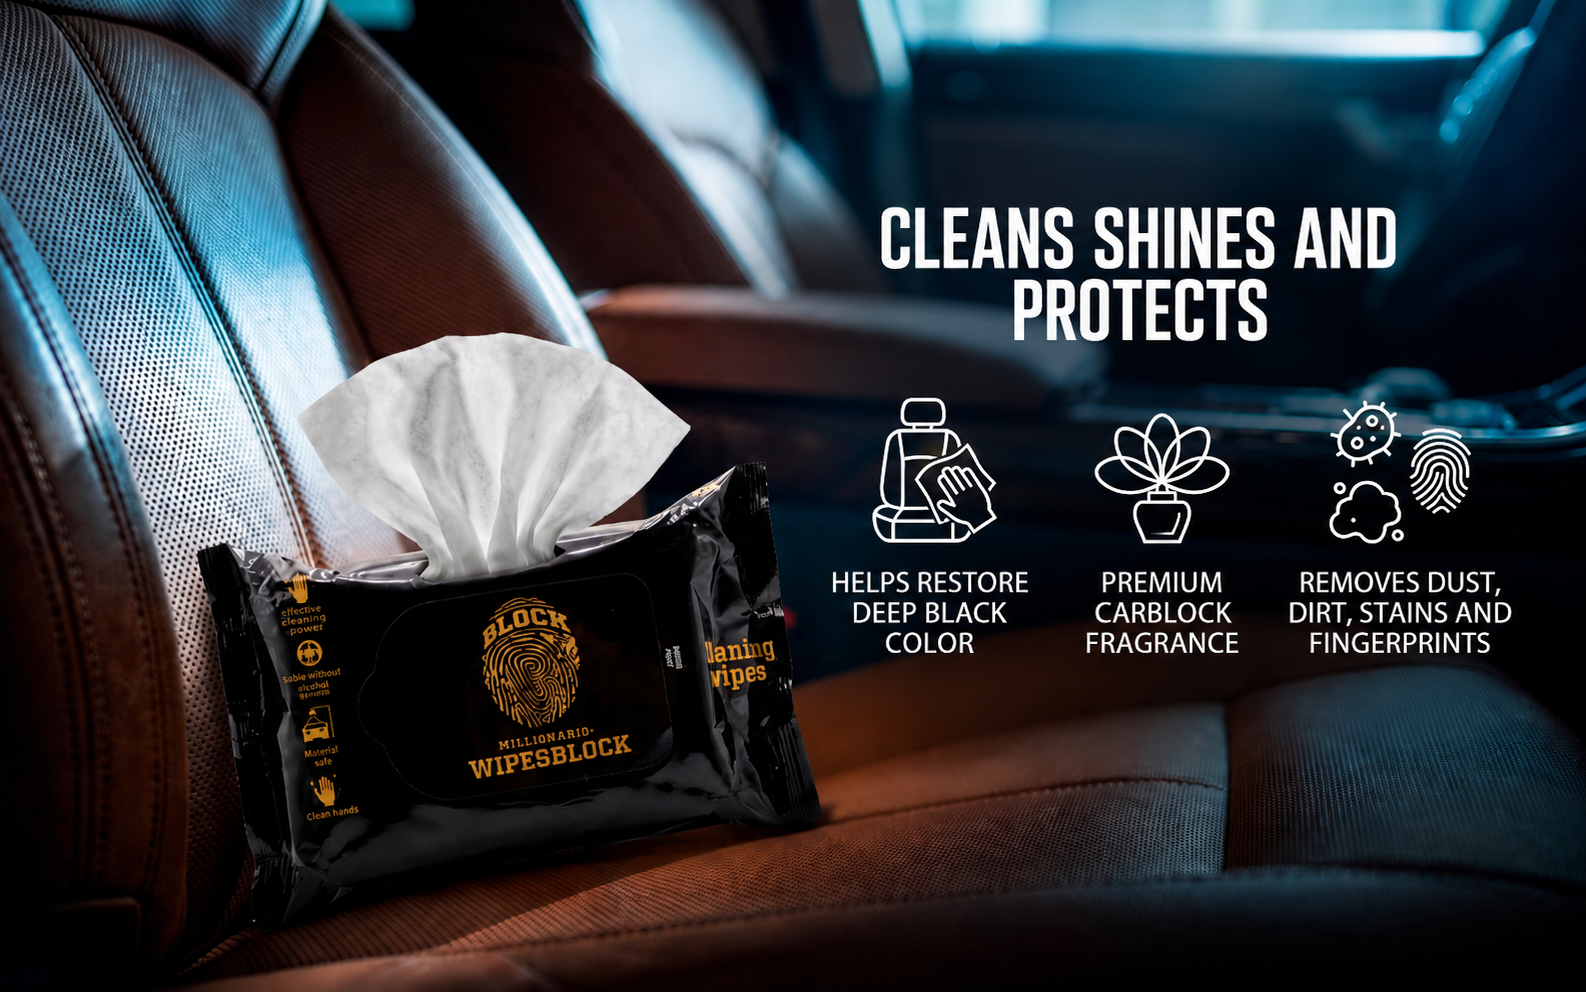
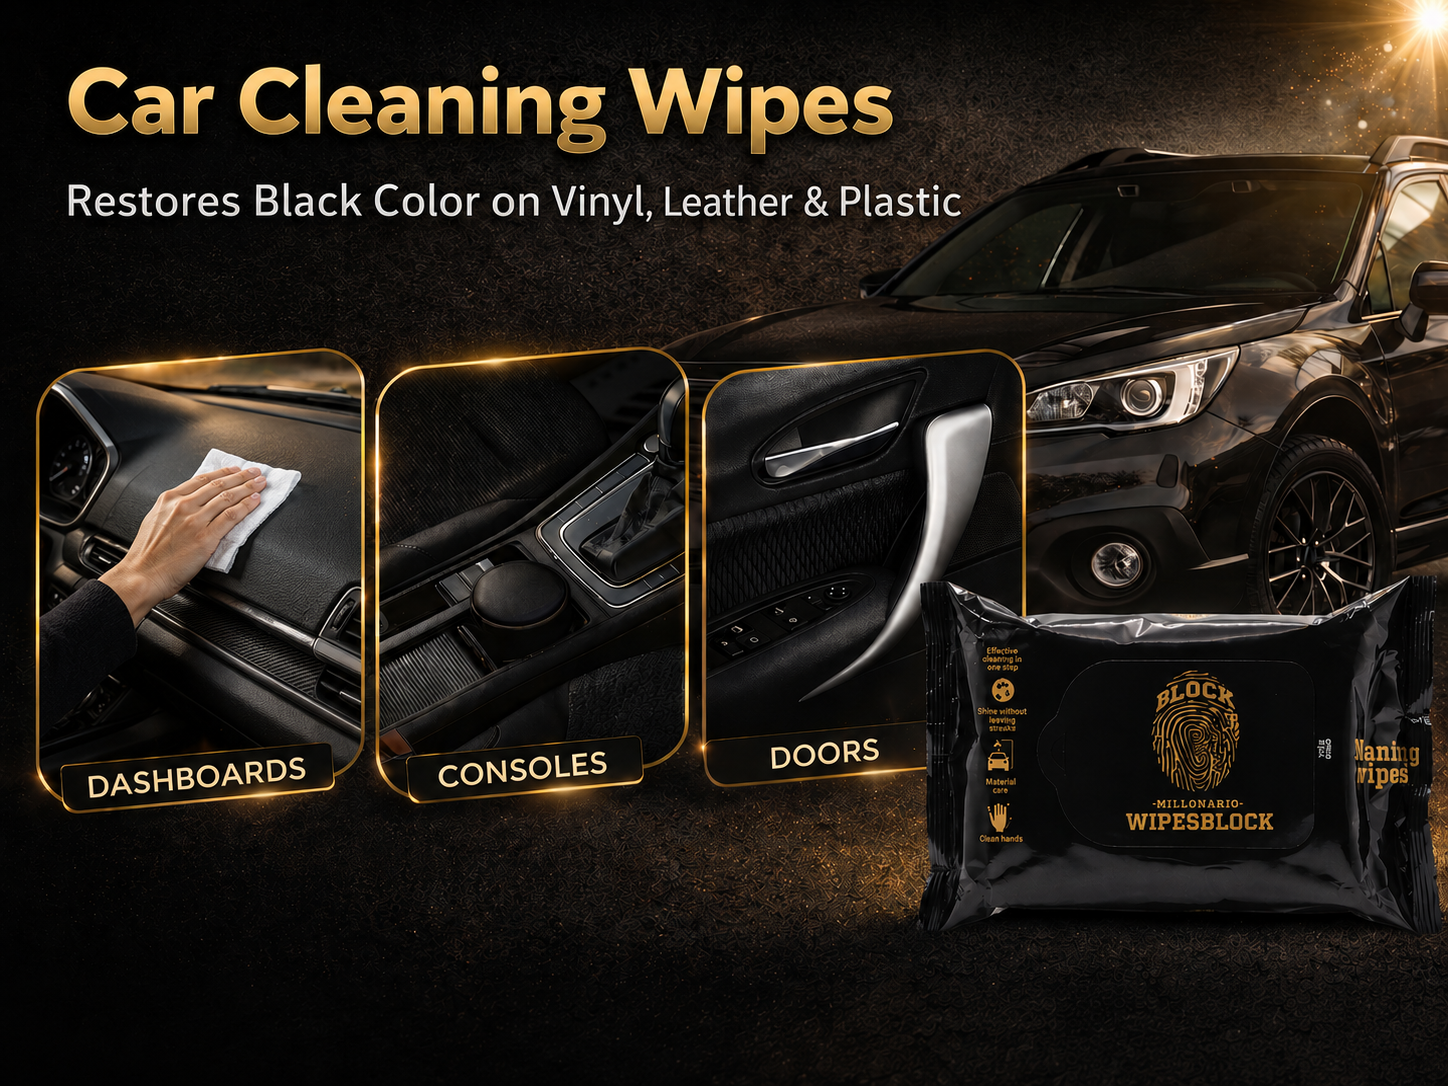
feat: refresh hero photos + remove breadcrumb on product detail page
hero — re-copy the 4 banner photos from the local Pagina web folder.
Photo 3 was updated (newer file), the rest are unchanged.

product page — drop the "HOME › CARBLOCK › CARBLOCK MILLON…"
breadcrumb strip at the top of /products/[slug]. The user finds the
extra row noisy now that the navbar + hero already give clear
context, and removing it brings the product image up ~50px on mobile.
Cleans up the now-unused Link and ChevronRight imports.

diff --git a/src/app/products/[slug]/page.tsx b/src/app/products/[slug]/page.tsx
@@ -1,6 +1,5 @@
 import { notFound } from "next/navigation";
-import Link from "next/link";
-import { ChevronRight, Truck, Clock, ShieldCheck } from "lucide-react";
+import { Truck, Clock, ShieldCheck } from "lucide-react";
 import {
   Accordion,
   AccordionContent,
@@ -58,25 +57,6 @@ export default async function ProductPage({
         category={product.category}
         price={product.price}
       />
-      {/* Breadcrumb */}
-      <div className="border-b border-[var(--border)]">
-        <div className="container-x py-4 flex items-center gap-2 text-xs uppercase tracking-[0.18em] text-[var(--muted)]">
-          <Link href="/" className="hover:text-[var(--gold)] transition-colors">
-            Home
-          </Link>
-          <ChevronRight className="h-3 w-3" />
-          <Link
-            href={`/products?category=${product.category}`}
-            className="hover:text-[var(--gold)] transition-colors"
-          >
-            {categoryLabel}
-          </Link>
-          <ChevronRight className="h-3 w-3" />
-          <span className="text-white truncate max-w-[200px]">
-            {product.name}
-          </span>
-        </div>
-      </div>
 
       {/* Main content — 2 columns */}
       <section className="container-x py-12 md:py-16">